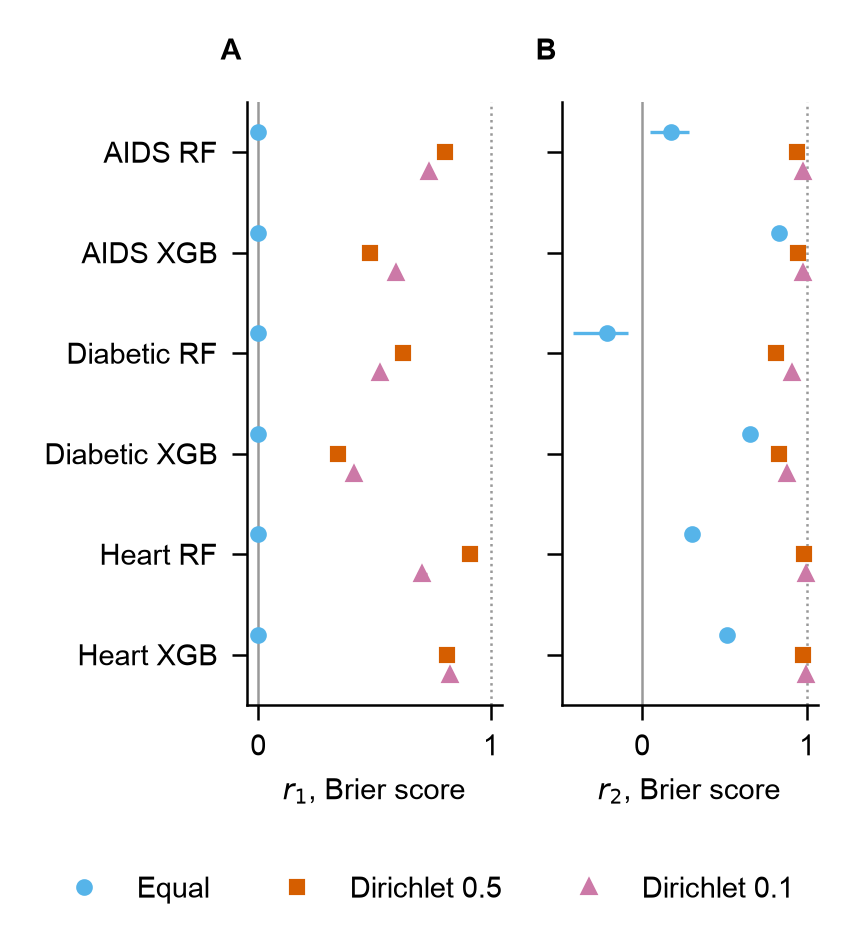
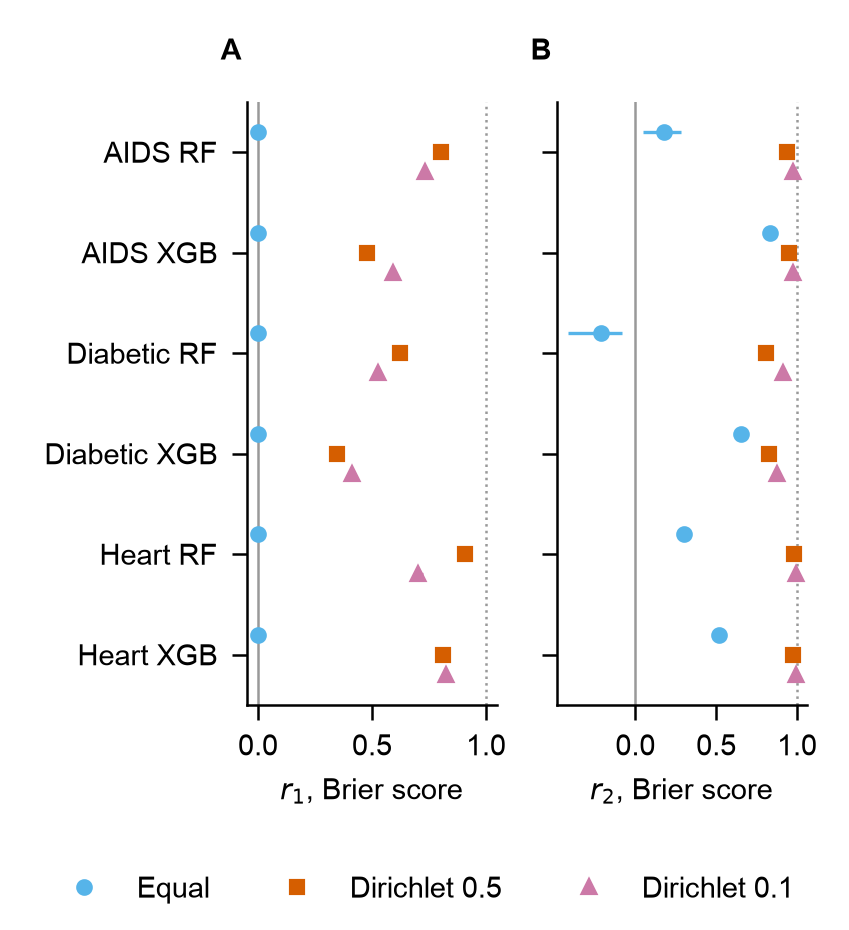
Fixed x ticks at 0, 0.5 and 1 in the share panels (F2 and S_E10)

diff --git a/experiments/csbj/figures.py b/experiments/csbj/figures.py
@@ -152,6 +152,7 @@ def _share_panel(ax, t, rows, level, groups, group_style, offsets):
                         ms=3, elinewidth=0.8, capsize=0)
     ax.axvline(0, color="#999999", lw=0.6)
     ax.axvline(1, color="#999999", lw=0.6, ls=":")
+    ax.set_xticks([0, 0.5, 1])
     ax.set_yticks(range(len(rows)))
     ax.set_ylim(len(rows) - 0.5, -0.5)
 
